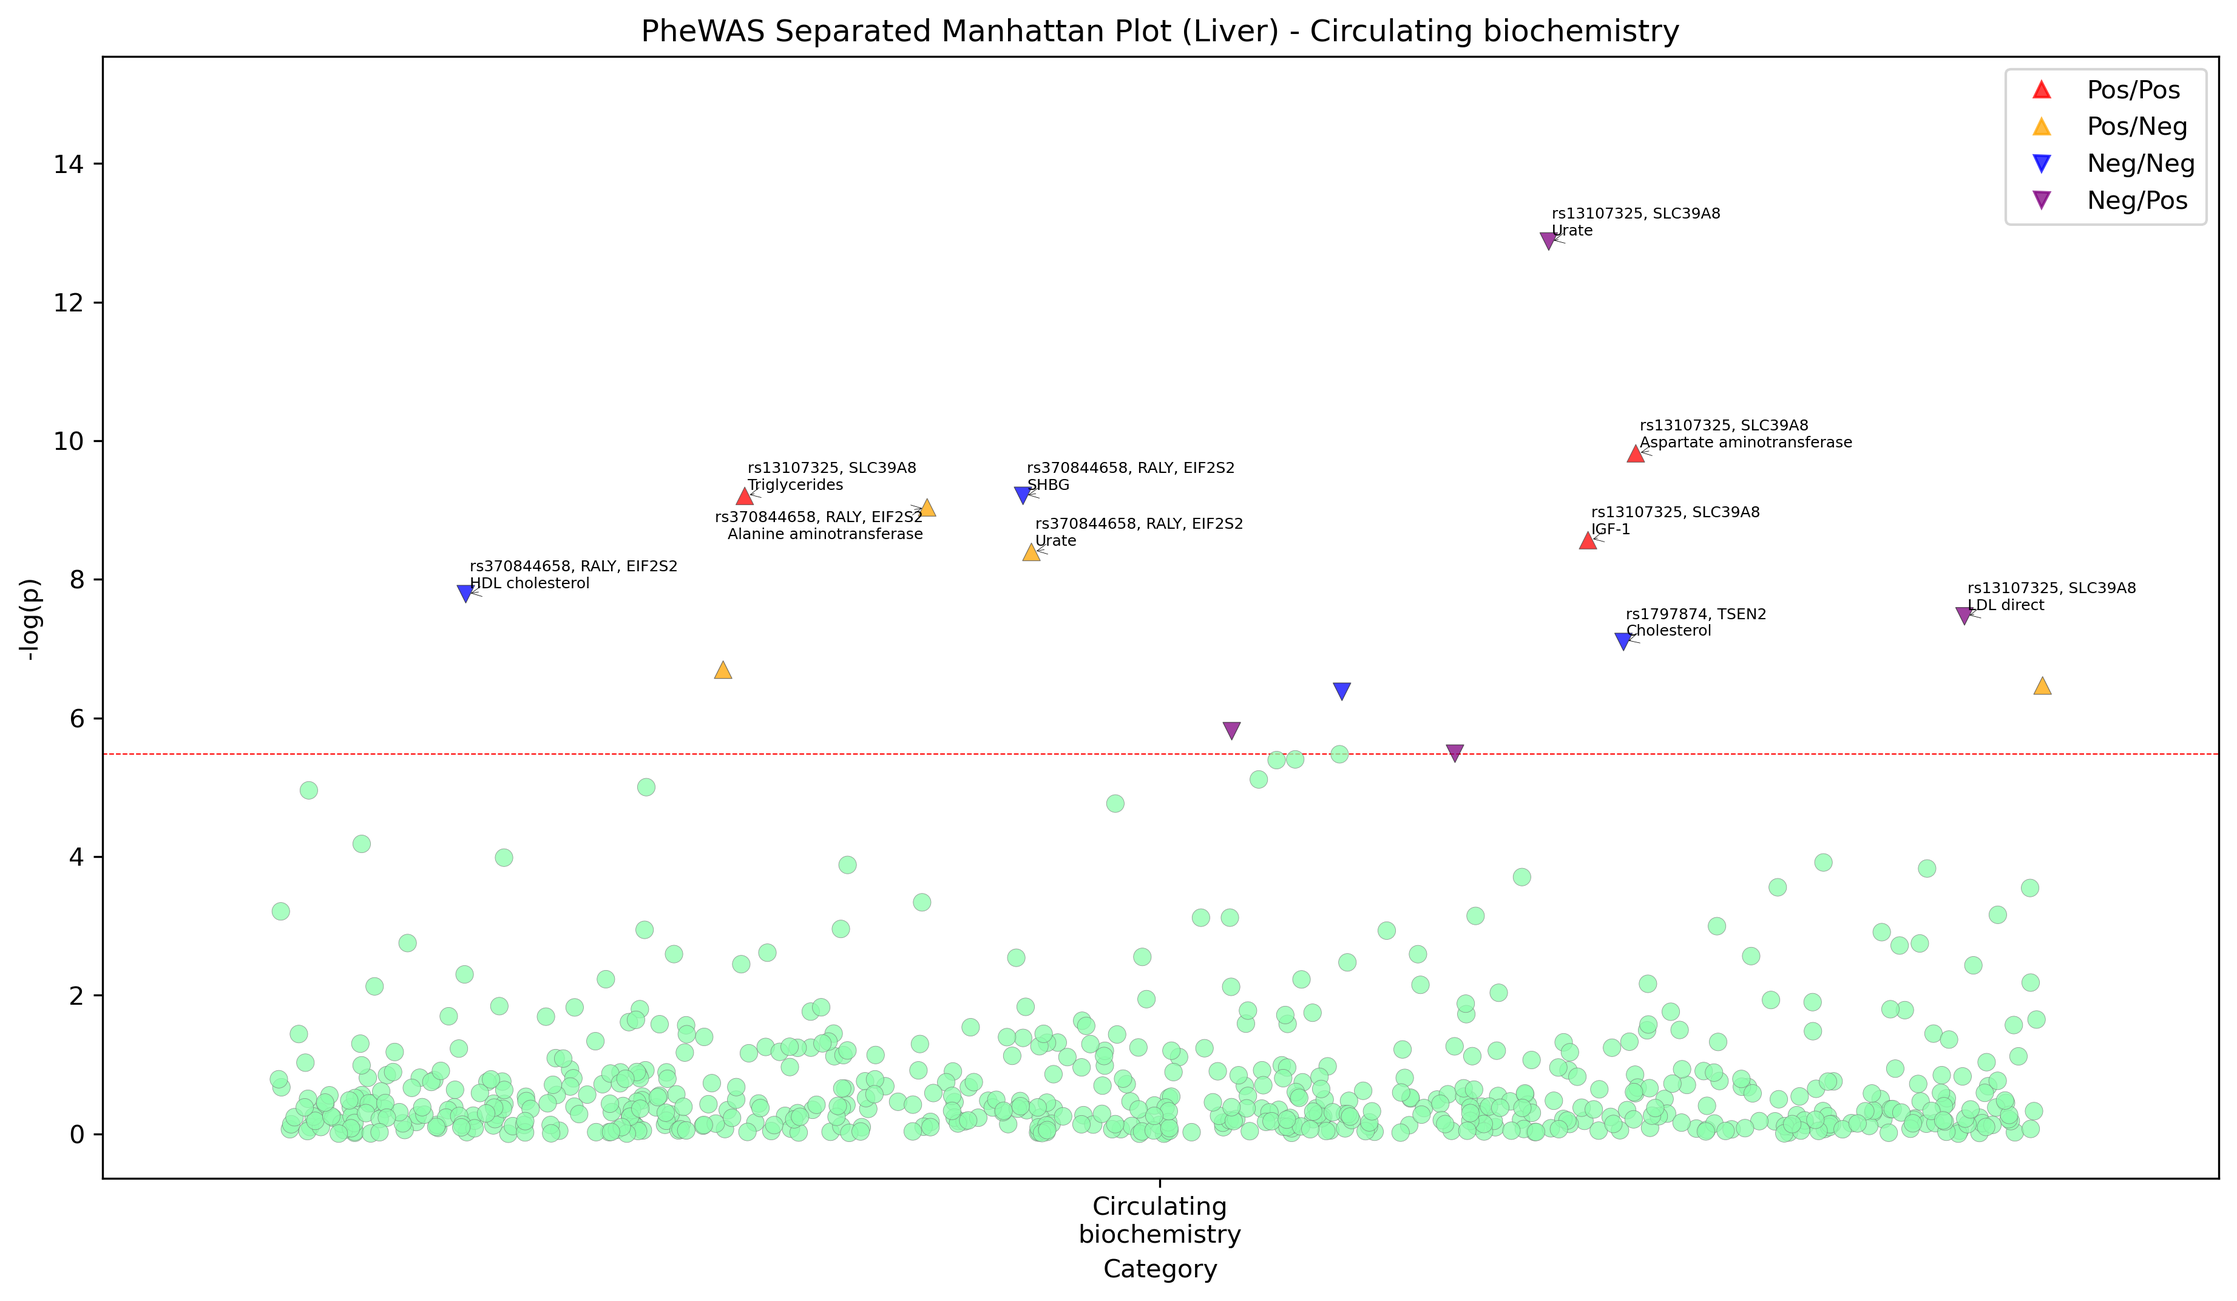
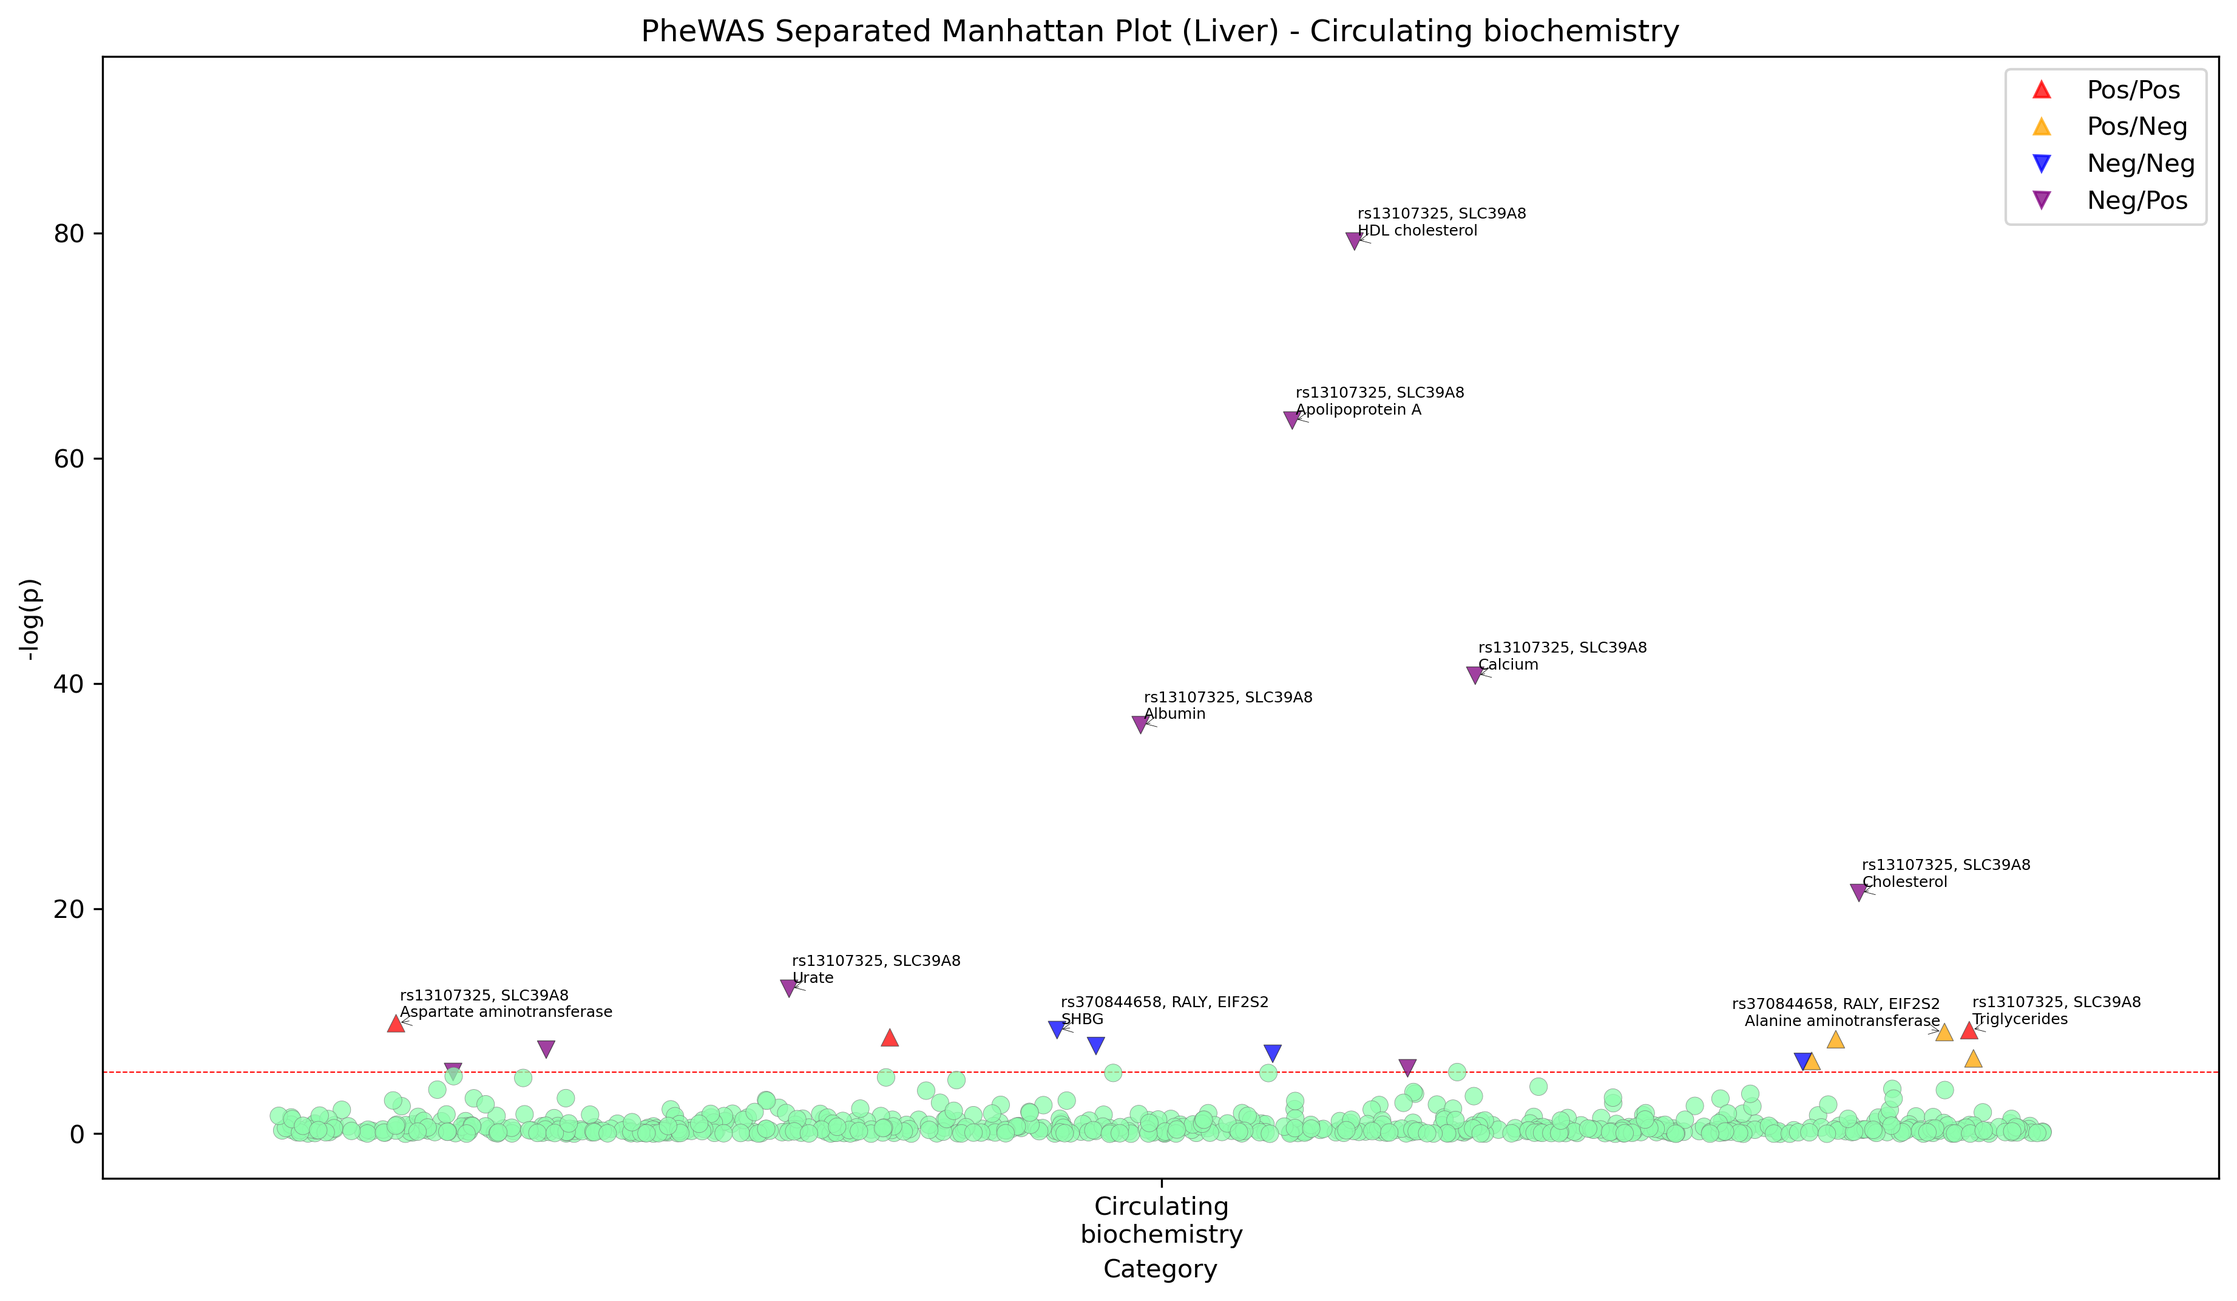
updated threshold arguments

diff --git a/pype/visualize.py b/pype/visualize.py
@@ -34,12 +34,12 @@ def manhattan_plot(phewas_results, sig, low, high, title, output_file, pheno, an
 	all_top.to_csv(output_file.rsplit('.', 1)[0] + '_significant_results.tsv', sep = '\t', index = False)
 
 	# remove extreme outliers in order to be able to visualize the data more coherently
-	phewas_results = phewas_results[phewas_results["-log(p)"].between(phewas_results["-log(p)"].quantile(low), phewas_results["-log(p)"].quantile(high))]
+	outlier_removed_phewas_results = phewas_results[phewas_results["-log(p)"].between(phewas_results["-log(p)"].quantile(low), phewas_results["-log(p)"].quantile(high))]
 	
 	# remove all results with p-value above the significance level
 	# groupby category and find median of all these significant results
 	# reset the index and sort by the log pvalues so largest will be at the right end of the plot
-	medians = phewas_results.loc[phewas_results["-log(p)"] >= sig].groupby('Category')["-log(p)"].mean().reset_index().sort_values(by="-log(p)").reset_index(drop=True)
+	medians = outlier_removed_phewas_results.loc[outlier_removed_phewas_results["-log(p)"] >= sig].groupby('Category')["-log(p)"].mean().reset_index().sort_values(by="-log(p)").reset_index(drop=True)
 
 
 	sig_cats = medians['Category'].values
@@ -47,9 +47,9 @@ def manhattan_plot(phewas_results, sig, low, high, title, output_file, pheno, an
 	# don't forget to re-add the categories that have no significant results
 	# calculate their median pvalues and add them to the dataframe
 	# sorting by the log pvalues so largest will still be at the right end of the plot
-	for cat in phewas_results['Category'].unique():
+	for cat in outlier_removed_phewas_results['Category'].unique():
 		if cat not in medians['Category'].values:
-			cat_median = phewas_results.groupby('Category')["-log(p)"].mean()[cat]
+			cat_median = outlier_removed_phewas_results.groupby('Category')["-log(p)"].mean()[cat]
 			medians = pd.concat([medians, pd.DataFrame({'Category': cat, "-log(p)": cat_median}, index = [0])])
 	
 	medians = medians.sort_values(by="-log(p)").reset_index(drop=True)
@@ -70,10 +70,10 @@ def manhattan_plot(phewas_results, sig, low, high, title, output_file, pheno, an
 		return
 
 	# sort the categories by the median list so we can plot in the right order
-	phewas_results = phewas_results.sort_values(by='Category', key = sorter)
+	outlier_removed_phewas_results = outlier_removed_phewas_results.sort_values(by='Category', key = sorter)
 
 	# get the list of categories, to map the colors to the categories
-	categories = phewas_results['Category'].unique()
+	categories = outlier_removed_phewas_results['Category'].unique()
 	n_categories = len(categories)
 
 	color_map = {}
@@ -88,9 +88,11 @@ def manhattan_plot(phewas_results, sig, low, high, title, output_file, pheno, an
 		color_map[pheno] = pheno_color
 
 	if plt_top_cat:
-		plot_significant_categories(indices_of_significant_cats, output_file, title, phewas_results, sig, annotate, N, compare_orig_betas, transparency, color_map)
+		# sort the 
+
+		plot_significant_categories(indices_of_significant_cats, output_file, title, phewas_results.sort_values(by='Category', key = sorter), sig, annotate, N, compare_orig_betas, transparency, color_map)
 	
-	if phewas_results.empty:
+	if outlier_removed_phewas_results.empty:
 		print('No significant results found for this phenotype')
 		return
 	
@@ -98,8 +100,8 @@ def manhattan_plot(phewas_results, sig, low, high, title, output_file, pheno, an
 	plt.figure(figsize=(15, 8), dpi=500)
 
 	# data for plotting
-	significant_results = phewas_results.loc[phewas_results["-log(p)"] >= sig]
-	non_significant_results = phewas_results.loc[phewas_results["-log(p)"] < sig]
+	significant_results = outlier_removed_phewas_results.loc[outlier_removed_phewas_results["-log(p)"] >= sig]
+	non_significant_results = outlier_removed_phewas_results.loc[outlier_removed_phewas_results["-log(p)"] < sig]
 
 	# get the significant results which have beta values that are positive or negative (to plot them differently)
 	significant_phewas_pos_beta = significant_results.loc[significant_results['beta'] >= 0].copy()
@@ -323,7 +325,7 @@ def category_enrichment_plot(phewas_results, sig,title, output_file):
 	plt.savefig(output_file, bbox_inches ='tight', dpi = 300)
 	plt.close()
 
-def volcano_plot(phewas_results, sig, title, output_file, phewas_type, N, max_genes, annotate, transparency, compare_orig_betas):
+def volcano_plot(phewas_results, sig, title, output_file, phewas_type, N, max_genes, annotate, transparency, compare_orig_betas, logp_low, logp_high, beta_low, beta_high):
 
 	# make a volcano plot for each independent variable that was tested
 	ind_vars = phewas_results['Independent_Var'].unique()
@@ -334,14 +336,21 @@ def volcano_plot(phewas_results, sig, title, output_file, phewas_type, N, max_ge
 
 	for ind_var in ind_vars:
 	
-		ind_var_i = phewas_results.loc[phewas_results['Independent_Var'] == ind_var]
-		
+		ind_var_i = phewas_results.loc[phewas_results['Independent_Var'] == ind_var].copy(deep = True)
+
+		# save the significant results to a file (before filtering out the super low p-values)
+		all_top = ind_var_i.loc[ind_var_i["-log(p)"] >= sig].sort_values(by = "-log(p)", ascending = False).reset_index(drop = True)
+		all_top.to_csv(output_base_name + '_' + ind_var +'.tsv', sep = '\t', index = False)
+
+		# remove extreme outliers in order to be able to visualize the data more coherently
+		outlier_removed_ind_var_i = ind_var_i[ind_var_i["-log(p)"].between(ind_var_i["-log(p)"].quantile(logp_low), ind_var_i["-log(p)"].quantile(logp_high))]
+	
 		# for visualization purposes, in my examples, found to be the best, but can be changed based on the data
-		ind_var_i = ind_var_i.loc[(ind_var_i['beta'] < 10) & (ind_var_i['beta'] > -10)].reset_index()
+		outlier_removed_ind_var_i = outlier_removed_ind_var_i.loc[(outlier_removed_ind_var_i['beta'] < beta_high) & (outlier_removed_ind_var_i['beta'] > beta_low)].reset_index()
 
 		# data for plotting
-		significant_results = ind_var_i.loc[ind_var_i["-log(p)"] >= sig]
-		non_significant_results = ind_var_i.loc[ind_var_i["-log(p)"] < sig]
+		significant_results = outlier_removed_ind_var_i.loc[outlier_removed_ind_var_i["-log(p)"] >= sig]
+		non_significant_results = outlier_removed_ind_var_i.loc[outlier_removed_ind_var_i["-log(p)"] < sig]
 
 		# get the significant results which have beta values that are positive or negative (to plot them differently)
 		significant_phewas_pos_beta = significant_results.loc[significant_results['beta'] >= 0].copy()
@@ -394,29 +403,29 @@ def volcano_plot(phewas_results, sig, title, output_file, phewas_type, N, max_ge
 			texts = []
 			
 			# get top N most significant results
-			ind_var_i = ind_var_i.sort_values(by = '-log(p)', ascending = False)
+			outlier_removed_ind_var_i = outlier_removed_ind_var_i.sort_values(by = '-log(p)', ascending = False)
 
-			descriptions = ind_var_i['Description']
+			descriptions = outlier_removed_ind_var_i['Description']
 
 			results_annotated = N
 			# annotate the top N most significant results with their description
 			for i, desc in enumerate(descriptions):
-				if ind_var_i.iloc[i]["-log(p)"] > sig:
+				if outlier_removed_ind_var_i.iloc[i]["-log(p)"] > sig:
 					
 					# check if either the x or y value is not a finite number
-					if ind_var_i.iloc[i]["-log(p)"] == np.inf or ind_var_i.iloc[i]["beta"] == np.inf:
+					if outlier_removed_ind_var_i.iloc[i]["-log(p)"] == np.inf or outlier_removed_ind_var_i.iloc[i]["beta"] == np.inf:
 						continue
 					else:
-						texts.append(plt.text(ind_var_i.iloc[i]['beta'], ind_var_i.iloc[i]["-log(p)"], desc, fontsize = 9, ha = 'center', va = 'center'))
+						texts.append(plt.text(outlier_removed_ind_var_i.iloc[i]['beta'], outlier_removed_ind_var_i.iloc[i]["-log(p)"], desc, fontsize = 9, ha = 'center', va = 'center'))
 						results_annotated -= 1
 
 						if results_annotated == 0:
 							break
 			
-			if phewas_type == 'genotype' and 'Gene' in ind_var_i.columns:
-				genes = ind_var_i['Gene'].unique()
+			if phewas_type == 'genotype' and 'Gene' in outlier_removed_ind_var_i.columns:
+				genes = outlier_removed_ind_var_i['Gene'].unique()
 			
-				if pd.isnull(genes):
+				if genes.any():
 					genes = ''
 				else:
 					if len(genes) > max_genes:
@@ -490,8 +499,6 @@ def main():
 	parser.add_argument('--save_gene_annotation', help = "Save the gene annotation file", required = False, default = False, action = 'store_true')
 
 	# Controlling Plot Aesthetics
-	parser.add_argument('--lower_outlier', help = "Lower outlier threshold of points to remove (for improving how the plot looks)", required=False, default = 0, type = float)
-	parser.add_argument('--upper_outlier', help = "Upper outlier threshold of points to remove (for improving how the plot looks)", required=False, default = 0.995, type = float)
 	parser.add_argument('--seed', help = "Seed value to make the adjustText library (annotations) deterministic", required = False, default = None, type = int)
 	parser.add_argument('--annotate', help = "Add annotations to the manhattan or volcano plots", required = False, default = False, action = 'store_true')
 	parser.add_argument('--transparency', help = "Transparency of points", required = False, default = 0.75, type = float)
@@ -502,6 +509,8 @@ def main():
 	parser.add_argument('--plot_top_data_field_categories', help = "Plot each data field category in the manhattan plot with significant results", required = False, default = False, action = 'store_true')
 	parser.add_argument('--annotate_top_N_manhattan', help = "Number of how many (max) significant results to annotate in each manhattan plot", required = False, default = 10, type = int)
 	parser.add_argument('--manhattan_title', help = "Title of the top level manhattan plot of the data", required=False, default = None, nargs='+')
+	parser.add_argument('--logp_lower_outlier_thresh_manhattan', help = "Lower outlier threshold (ratio) of points to remove for the manhattan plot (for improving how the plot looks)", required=False, default = 0, type = float)
+	parser.add_argument('--logp_upper_outlier_thresh_manhattan', help = "Upper outlier threshold (ratio) of points to remove for the manhattan plot (for improving how the plot looks)", required=False, default = 0.995, type = float)
 
 	# Category Enrichment Plot Specific
 	parser.add_argument('--plot_category_enrichment', help = "Plot category enrichment bar plot", required = False, default = False, action = 'store_true')
@@ -512,6 +521,11 @@ def main():
 	parser.add_argument('--volcano_title', help = "Title of the volcano plot (will have the SNP-Gene mapping appended if annotations and gene file specified)", required=False, default = None, nargs='+')
 	parser.add_argument('--max_genes', help = "Maximum number of genes to include in the title for the volcano plot", required=False, default = 3, type = int)
 	parser.add_argument('--annotate_top_N_volcano', help = "Number of how many (max) significant results to annotate in each volcano plot", required = False, default = 5, type = int)
+	parser.add_argument('--beta_lower_outlier_val', help = "Lower outlier values of betas to remove for the volcano plot (for improving how the plot looks)", required=False, default = -10, type = float)
+	parser.add_argument('--beta_upper_outlier_val', help = "Upper outlier values of betas to remove for the volcano plot (for improving how the plot looks)", required=False, default = 10, type = float)
+	parser.add_argument('--logp_lower_outlier_thresh_volcano', help = "Lower outlier threshold (ratio) of points to remove for the volcano plot (for improving how the plot looks)", required=False, default = 0, type = float)
+	parser.add_argument('--logp_upper_outlier_thresh_volcano', help = "Upper outlier threshold (ratio) of points to remove for the volcano plot (for improving how the plot looks)", required=False, default = 1, type = float)
+
 
 	# Significance Level Information
 	parser.add_argument('--alpha', help = "Significance threshold", required = False, default = 0.05, type = float)
@@ -541,8 +555,8 @@ def main():
 	save_gene_annotation = args.save_gene_annotation
 
 	# Controlling Plot Aesthetics
-	lower_outlier = args.lower_outlier
-	upper_outlier = args.upper_outlier
+	logp_lower_outlier_thresh_manhattan = args.logp_lower_outlier_thresh_manhattan
+	logp_upper_outlier_thresh_manhattan = args.logp_upper_outlier_thresh_manhattan
 	seed = args.seed
 	annotate = args.annotate
 	transparency = args.transparency
@@ -563,7 +577,11 @@ def main():
 	volcano_title = args.volcano_title
 	max_genes = args.max_genes
 	annotate_top_N_volcano = args.annotate_top_N_volcano
-
+	beta_lower_outlier_val = args.beta_lower_outlier_val
+	beta_upper_outlier_val = args.beta_upper_outlier_val
+	logp_lower_outlier_thresh_volcano = args.logp_lower_outlier_thresh_volcano
+	logp_upper_outlier_thresh_volcano = args.logp_upper_outlier_thresh_volcano
+	
 	# Significance Level Information
 	alpha = args.alpha
 	correction = args.correction
@@ -600,6 +618,40 @@ def main():
 		print("Error: You have specified to plot the PheWAS categories separately but also specified that there is only one category to plot. Please only specify one of these options.")
 		exit()
 	
+	if plot_manhattan or plot_volcano:
+		if logp_lower_outlier_thresh_manhattan < 0 or logp_lower_outlier_thresh_manhattan > 1:
+			print("Error: The log(p) lower outlier must be between 0 and 1.")
+			exit()
+		
+		if logp_upper_outlier_thresh_manhattan < 0 or logp_upper_outlier_thresh_manhattan > 1:
+			print("Error: The log(p) upper outlier must be between 0 and 1.")
+			exit()
+		
+		if logp_lower_outlier_thresh_manhattan >= logp_upper_outlier_thresh_manhattan:
+			print("Error: The log(p) lower outlier cannot be greater than or equal to the log(p) upper outlier.")
+			exit()
+	
+	if plot_volcano:
+		
+		if logp_lower_outlier_thresh_volcano < 0 or logp_lower_outlier_thresh_volcano > 1:
+			print("Error: The log(p) lower outlier must be between 0 and 1.")
+			exit()
+		
+		if logp_upper_outlier_thresh_volcano < 0 or logp_upper_outlier_thresh_volcano > 1:
+			print("Error: The log(p) upper outlier must be between 0 and 1.")
+			exit()
+		
+		if logp_lower_outlier_thresh_volcano >= logp_upper_outlier_thresh_volcano:
+			print("Error: The log(p) lower outlier cannot be greater than or equal to the log(p) upper outlier.")
+			exit()
+
+		if beta_lower_outlier_val >= beta_upper_outlier_val:
+			print("Error: The beta lower outlier cannot be greater than or equal to the beta upper outlier.")
+			exit()
+	
+	if transparency < 0 or transparency > 1:
+		print("Error: The transparency must be between 0 and 1.")
+		exit()
 
 	# ----------------------------------------------------------------------------------------- #
 
@@ -613,7 +665,7 @@ def main():
 
 	# any rows with missing values, positive or negative infinity, set them to the max value for that column
 	phewas_results = phewas_results.replace([np.inf, -np.inf], np.nan)
-	phewas_results = phewas_results.fillna(phewas_results.max())
+	phewas_results = phewas_results.fillna(phewas_results.max(numeric_only=True))
 	
 
 	# if there is a user specified mapping, then use it
@@ -763,8 +815,8 @@ def main():
 
 		manhattan_plot(phewas_results  = phewas_results, 
 						sig = significance_level, 
-						low = lower_outlier,
-						high = upper_outlier,
+						low = logp_lower_outlier_thresh_manhattan,
+						high = logp_upper_outlier_thresh_manhattan,
 						title = manhattan_title,
 						output_file = manhattan_agg_dir + '/' + output_prefix + output_extension,
 						pheno = 'Aggregate',
@@ -799,7 +851,11 @@ def main():
 						max_genes = max_genes,
 						annotate = annotate,
 						transparency = transparency,
-						compare_orig_betas = compare_original_betas)
+						compare_orig_betas = compare_original_betas,
+						logp_low = logp_lower_outlier_thresh_volcano,
+						logp_high = logp_upper_outlier_thresh_volcano,
+						beta_low = beta_lower_outlier_val,
+						beta_high = beta_upper_outlier_val)
 						
 	if plot_phewas_categories_separately:
 		for category, plot_info in phewas_categories_map.items():
@@ -811,8 +867,8 @@ def main():
 				print('Plotting %s Manhattan plot' % (category))
 				manhattan_plot(phewas_results  = predictor_specific, 
 								sig = significance_level, 
-								low = lower_outlier,
-								high = upper_outlier,
+								low = logp_lower_outlier_thresh_manhattan,
+								high = logp_upper_outlier_thresh_manhattan,
 								title = plot_info[MANHATTAN][TITLE],
 								output_file = plot_info[MANHATTAN][FILE],
 								pheno = category,
@@ -841,7 +897,11 @@ def main():
 							max_genes = max_genes,
 							annotate = annotate,
 							transparency = transparency,
-							compare_orig_betas = compare_original_betas)
+							compare_orig_betas = compare_original_betas,
+							logp_low = logp_lower_outlier_thresh_volcano,
+							logp_high = logp_upper_outlier_thresh_volcano,
+							beta_low = beta_lower_outlier_val,
+							beta_high = beta_upper_outlier_val)
 
 
 if __name__ == '__main__':
